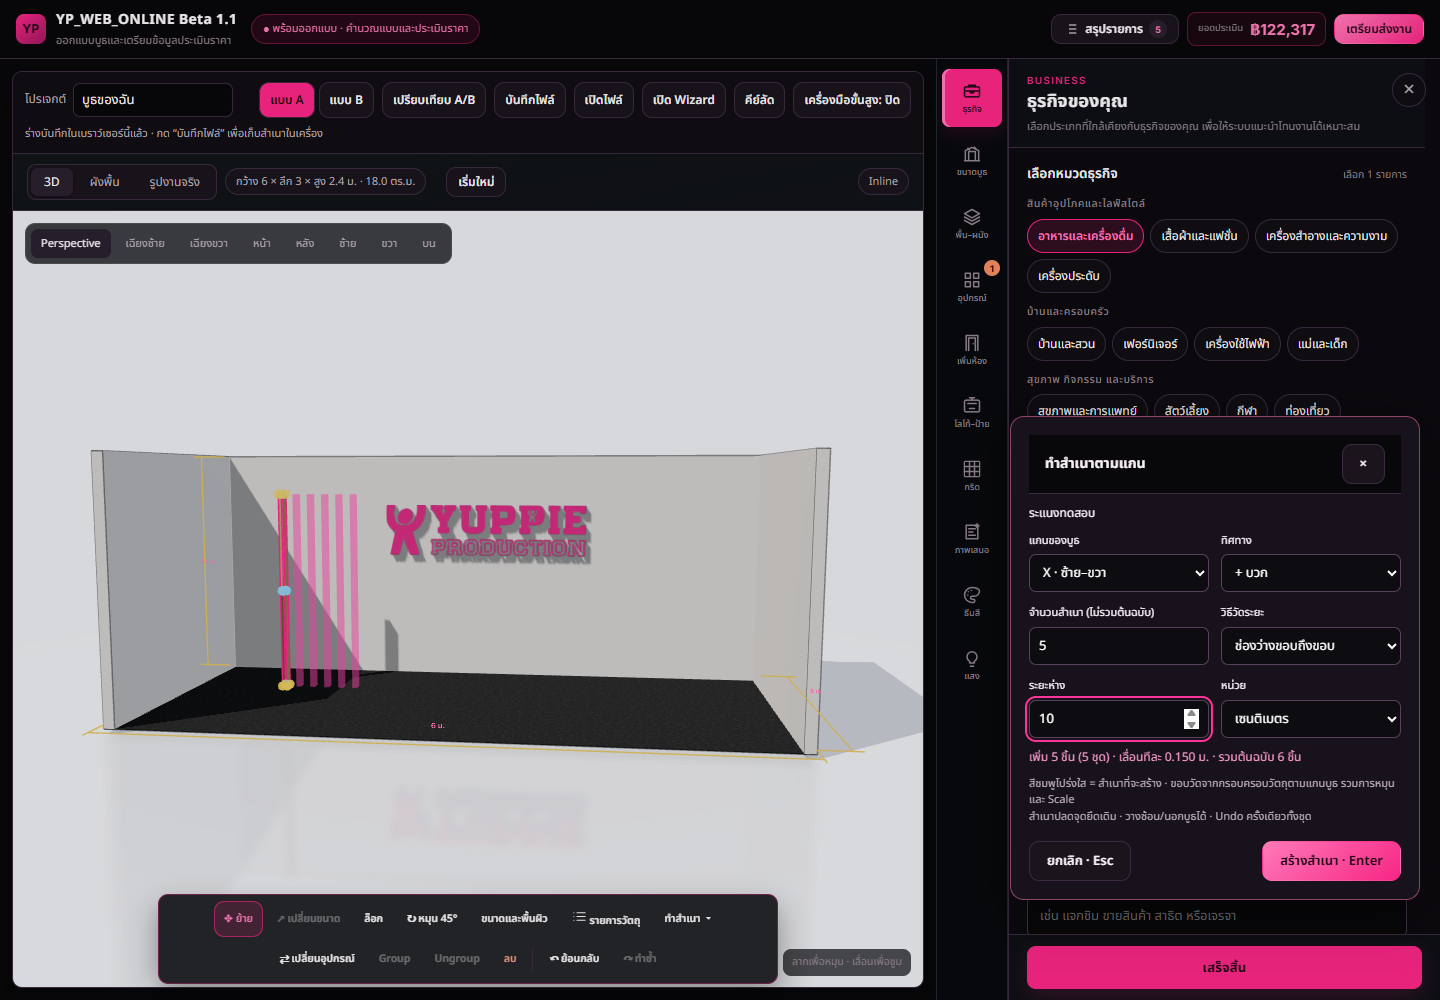
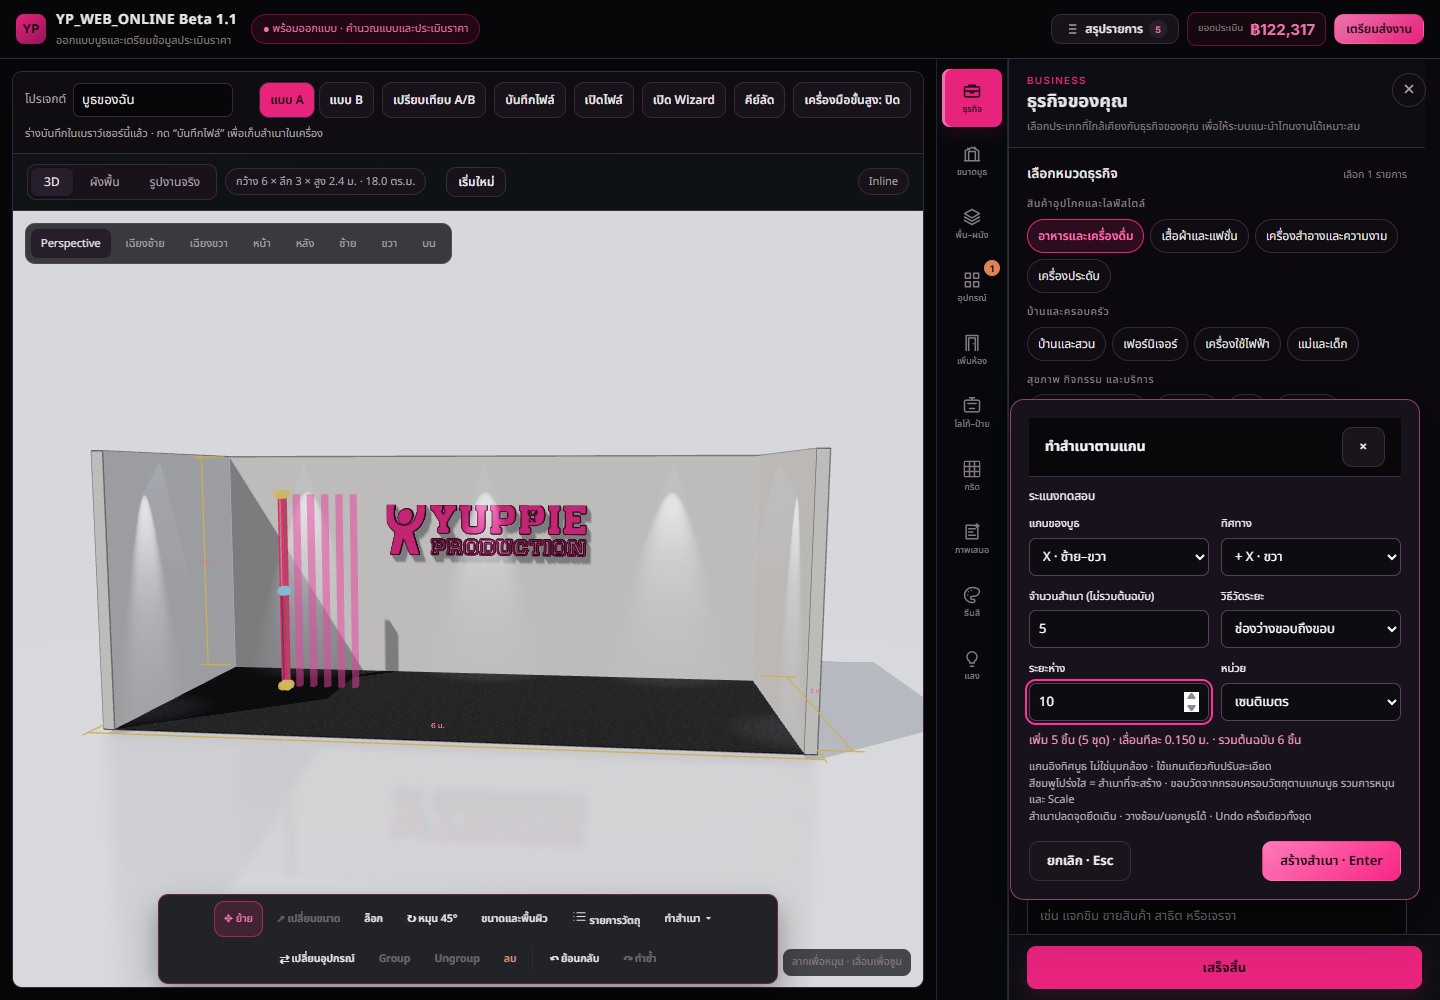
แก้บั๊ก แกน xyz สำเนา

diff --git a/public/yp-web-ai/js/copy-array-ui.js b/public/yp-web-ai/js/copy-array-ui.js
@@ -4,14 +4,14 @@
  const dialog=document.createElement('dialog');dialog.id='copyArrayDialog';dialog.setAttribute('aria-labelledby','copyArrayTitle');
  dialog.innerHTML=`<form id="copyArrayForm"><header><strong id="copyArrayTitle">ทำสำเนาตามแกน</strong><button type="button" class="btn" id="copyArrayClose" aria-label="ปิด">×</button></header>
  <p id="copyArraySource"></p><div class="copy-array-grid">
- <label>แกนของบูธ<select id="copyArrayAxis"><option value="x">X · ซ้าย–ขวา</option><option value="y">Y · ขึ้น–ลง</option><option value="z">Z · หลัง–หน้า</option></select></label>
+ <label>แกนของบูธ<select id="copyArrayAxis"><option value="x">X · ซ้าย–ขวา</option><option value="y">Y · หน้า–หลัง</option><option value="z">Z · ขึ้น–ลง</option></select></label>
  <label>ทิศทาง<select id="copyArrayDirection"><option value="1">+ บวก</option><option value="-1">− ลบ</option></select></label>
  <label>จำนวนสำเนา (ไม่รวมต้นฉบับ)<input id="copyArrayCount" type="number" min="1" max="100" step="1" value="1" required></label>
  <label>วิธีวัดระยะ<select id="copyArrayMode"><option value="gap">ช่องว่างขอบถึงขอบ</option><option value="step">ระยะเลื่อนต่อชิ้น</option></select></label>
  <label>ระยะห่าง<input id="copyArrayDistance" type="number" min="0" step="any" value="10" required></label>
  <label>หน่วย<select id="copyArrayUnit"><option value="cm">เซนติเมตร</option><option value="m">เมตร</option></select></label></div>
  <p id="copyArraySummary" role="status" aria-live="polite"></p><p id="copyArrayWarning"></p>
- <small>สีชมพูโปร่งใส = สำเนาที่จะสร้าง · ขอบวัดจากกรอบครอบวัตถุตามแกนบูธ รวมการหมุนและ Scale<br>สำเนาปลดจุดยึดเดิม · วางซ้อน/นอกบูธได้ · Undo ครั้งเดียวทั้งชุด</small>
+ <small>แกนอิงทิศบูธ ไม่ใช่มุมกล้อง · ใช้แกนเดียวกับปรับละเอียด<br>สีชมพูโปร่งใส = สำเนาที่จะสร้าง · ขอบวัดจากกรอบครอบวัตถุตามแกนบูธ รวมการหมุนและ Scale<br>สำเนาปลดจุดยึดเดิม · วางซ้อน/นอกบูธได้ · Undo ครั้งเดียวทั้งชุด</small>
  <footer><button type="button" class="btn" id="copyArrayCancel">ยกเลิก · Esc</button><button type="submit" class="btn pri" id="copyArrayConfirm">สร้างสำเนา · Enter</button></footer></form>`;
  document.body.append(dialog);
  const style=document.createElement('style');style.textContent=`#copyArrayDialog{position:fixed;inset:auto 20px 100px auto;margin:0;width:min(410px,calc(100vw - 24px));box-sizing:border-box;max-height:calc(100dvh - 40px);overflow:auto;padding:18px;background:#17121b;color:#f5eff6;border:1px solid #904466;border-radius:14px;box-shadow:0 12px 48px #0006}#copyArrayDialog::backdrop{background:#0001}#copyArrayDialog header,#copyArrayDialog footer{display:flex;justify-content:space-between;align-items:center;gap:10px}#copyArrayDialog footer{margin-top:16px}#copyArrayDialog p{font-size:12px;line-height:1.5;margin:10px 0}#copyArrayDialog small{font-size:11px;line-height:1.5;color:#bcaebe;display:block}.copy-array-grid{display:grid;grid-template-columns:1fr 1fr;gap:12px}.copy-array-grid label{display:grid;gap:5px;font-size:11px}.copy-array-grid input,.copy-array-grid select{box-sizing:border-box;width:100%;min-width:0;height:38px;padding:6px 9px;background:#0d0c10;border:1px solid #57405b;border-radius:7px;color:#fff;font:inherit;font-size:13px}#copyArrayDialog :focus-visible{outline:2px solid #ff3297;outline-offset:2px}#copyArrayWarning{color:#ffce85}#copyArraySummary{color:#f798c8}@media(max-width:600px){#copyArrayDialog{inset:auto 12px 12px 12px;width:auto;padding:14px;max-height:66dvh}}`;
@@ -21,7 +21,16 @@
  function clearGhost(){if(!session?.ghost)return;session.ghost.removeFromParent();for(const m of session.materials||[])m.dispose();for(const g of session.geometries||[])g.dispose();session.ghost=null;}
  function close(){clearGhost();session=null;dialog.close();document.getElementById('btnDuplicateObject')?.focus();}
  function error(message){$('Summary').textContent=message;$('Confirm').disabled=true;clearGhost();}
- function options(){return Object.fromEntries(['Axis','Direction','Mode','Unit','Count','Distance'].map(k=>[k.toLowerCase(),$(k).value]));}
+ function options(){
+  const values=Object.fromEntries(['Axis','Direction','Mode','Unit','Count','Distance'].map(k=>[k.toLowerCase(),$(k).value]));
+  // Same Z-up presentation as Fine Position. Planning/storage remain Y-up.
+  values.axis=finePositionWorldAxis(values.axis);return values;
+ }
+ function directionLabels(){
+  const labels={x:['ขวา','ซ้าย'],y:['หน้า','หลัง'],z:['ขึ้น','ลง']}[$('Axis').value];
+  $('Direction').options[0].textContent='+ '+$('Axis').value.toUpperCase()+' · '+labels[0];
+  $('Direction').options[1].textContent='− '+$('Axis').value.toUpperCase()+' · '+labels[1];
+ }
  function preview(plan){
   clearGhost();const s=session,T=s.renderer.THREE;s.ghost=new T.Group();s.ghost.name='copy-array-preview';s.ghost.userData.editorHelper=true;s.materials=[];s.geometries=[];
   const mat=new T.MeshBasicMaterial({color:'#ff3297',transparent:true,opacity:.30,depthWrite:false,side:T.DoubleSide});s.materials.push(mat);
@@ -35,6 +44,7 @@
   s.renderer.scene.add(s.ghost);return lightPreview;
  }
  function update(){
+  directionLabels();
   if(!session)return;
   try{
    if(stamp()!==session.stamp)throw Error('แบบต้นฉบับเปลี่ยนแล้ว กรุณาปิดและเปิดทำสำเนาใหม่');

diff --git a/public/yp-web-ai/index.html b/public/yp-web-ai/index.html
@@ -10204,7 +10204,7 @@ window.addEventListener('beforeunload',()=>{if(threeRenderer)threeRenderer.dispo
 <script src="js/asset-replace-ui.js?v=20260911-1"></script>
 <script src="js/asset-settings-enter.js?v=20260911-1"></script>
 <script src="js/copy-array.js?v=20260912-1"></script>
-<script src="js/copy-array-ui.js?v=20260912-1"></script>
+<script src="js/copy-array-ui.js?v=20260914-z-up-1"></script>
 <script src="js/booth-theme.js?v=20260913-lighting-1"></script>
 <link rel="stylesheet" href="css/booth-theme.css?v=20260911-1">
 <script src="js/booth-theme-ui.js?v=20260911-1"></script>
